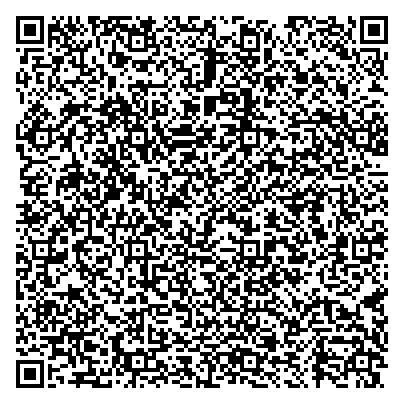
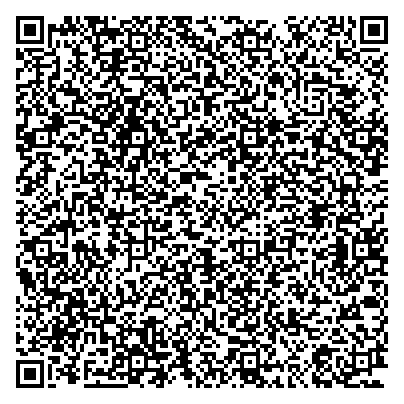
updated webhook url and generated qr code

Changed region(s): [[0.0297, 0.0297, 0.9802, 0.9802], [0.8317, 0.0297, 0.8614, 0.0594]]

diff --git a/issuer/Issuer.js b/issuer/Issuer.js
@@ -11,7 +11,7 @@ const PORT = 4000
 const verityUrl = 'https://vas.pps.evernym.com' // address of Verity Application Server
 const domainDid = '4k4pM4WM8iaoHFou5gc52P' // your Domain DID on the multi-tenant Verity Application Server
 const xApiKey = 'q41CTo5HYv4XhADGBBVjfU9v6aWFeEuXCTREvTTURda:sLaopyanPhxgEh1S4CBPKYLpz2B35ER3YaXBk5j4nDXs45j8tcfKdsmiuQCbtuuk8QJQNcCa7K4TX9wtLQrT9d1' // REST API key associated with your Domain DID
-const webhookUrl = 'http://c6400d53d576.ngrok.io/webhook' // public URL for the webhook endpoint
+const webhookUrl = 'http://5099ff367c47.ngrok.io/webhook' // public URL for the webhook endpoint
 
 // Sends Verity REST API call to Verity Application server
 async function sendVerityRESTMessage (qualifier, msgFamily, msgFamilyVersion, msgName, message, threadId) {
